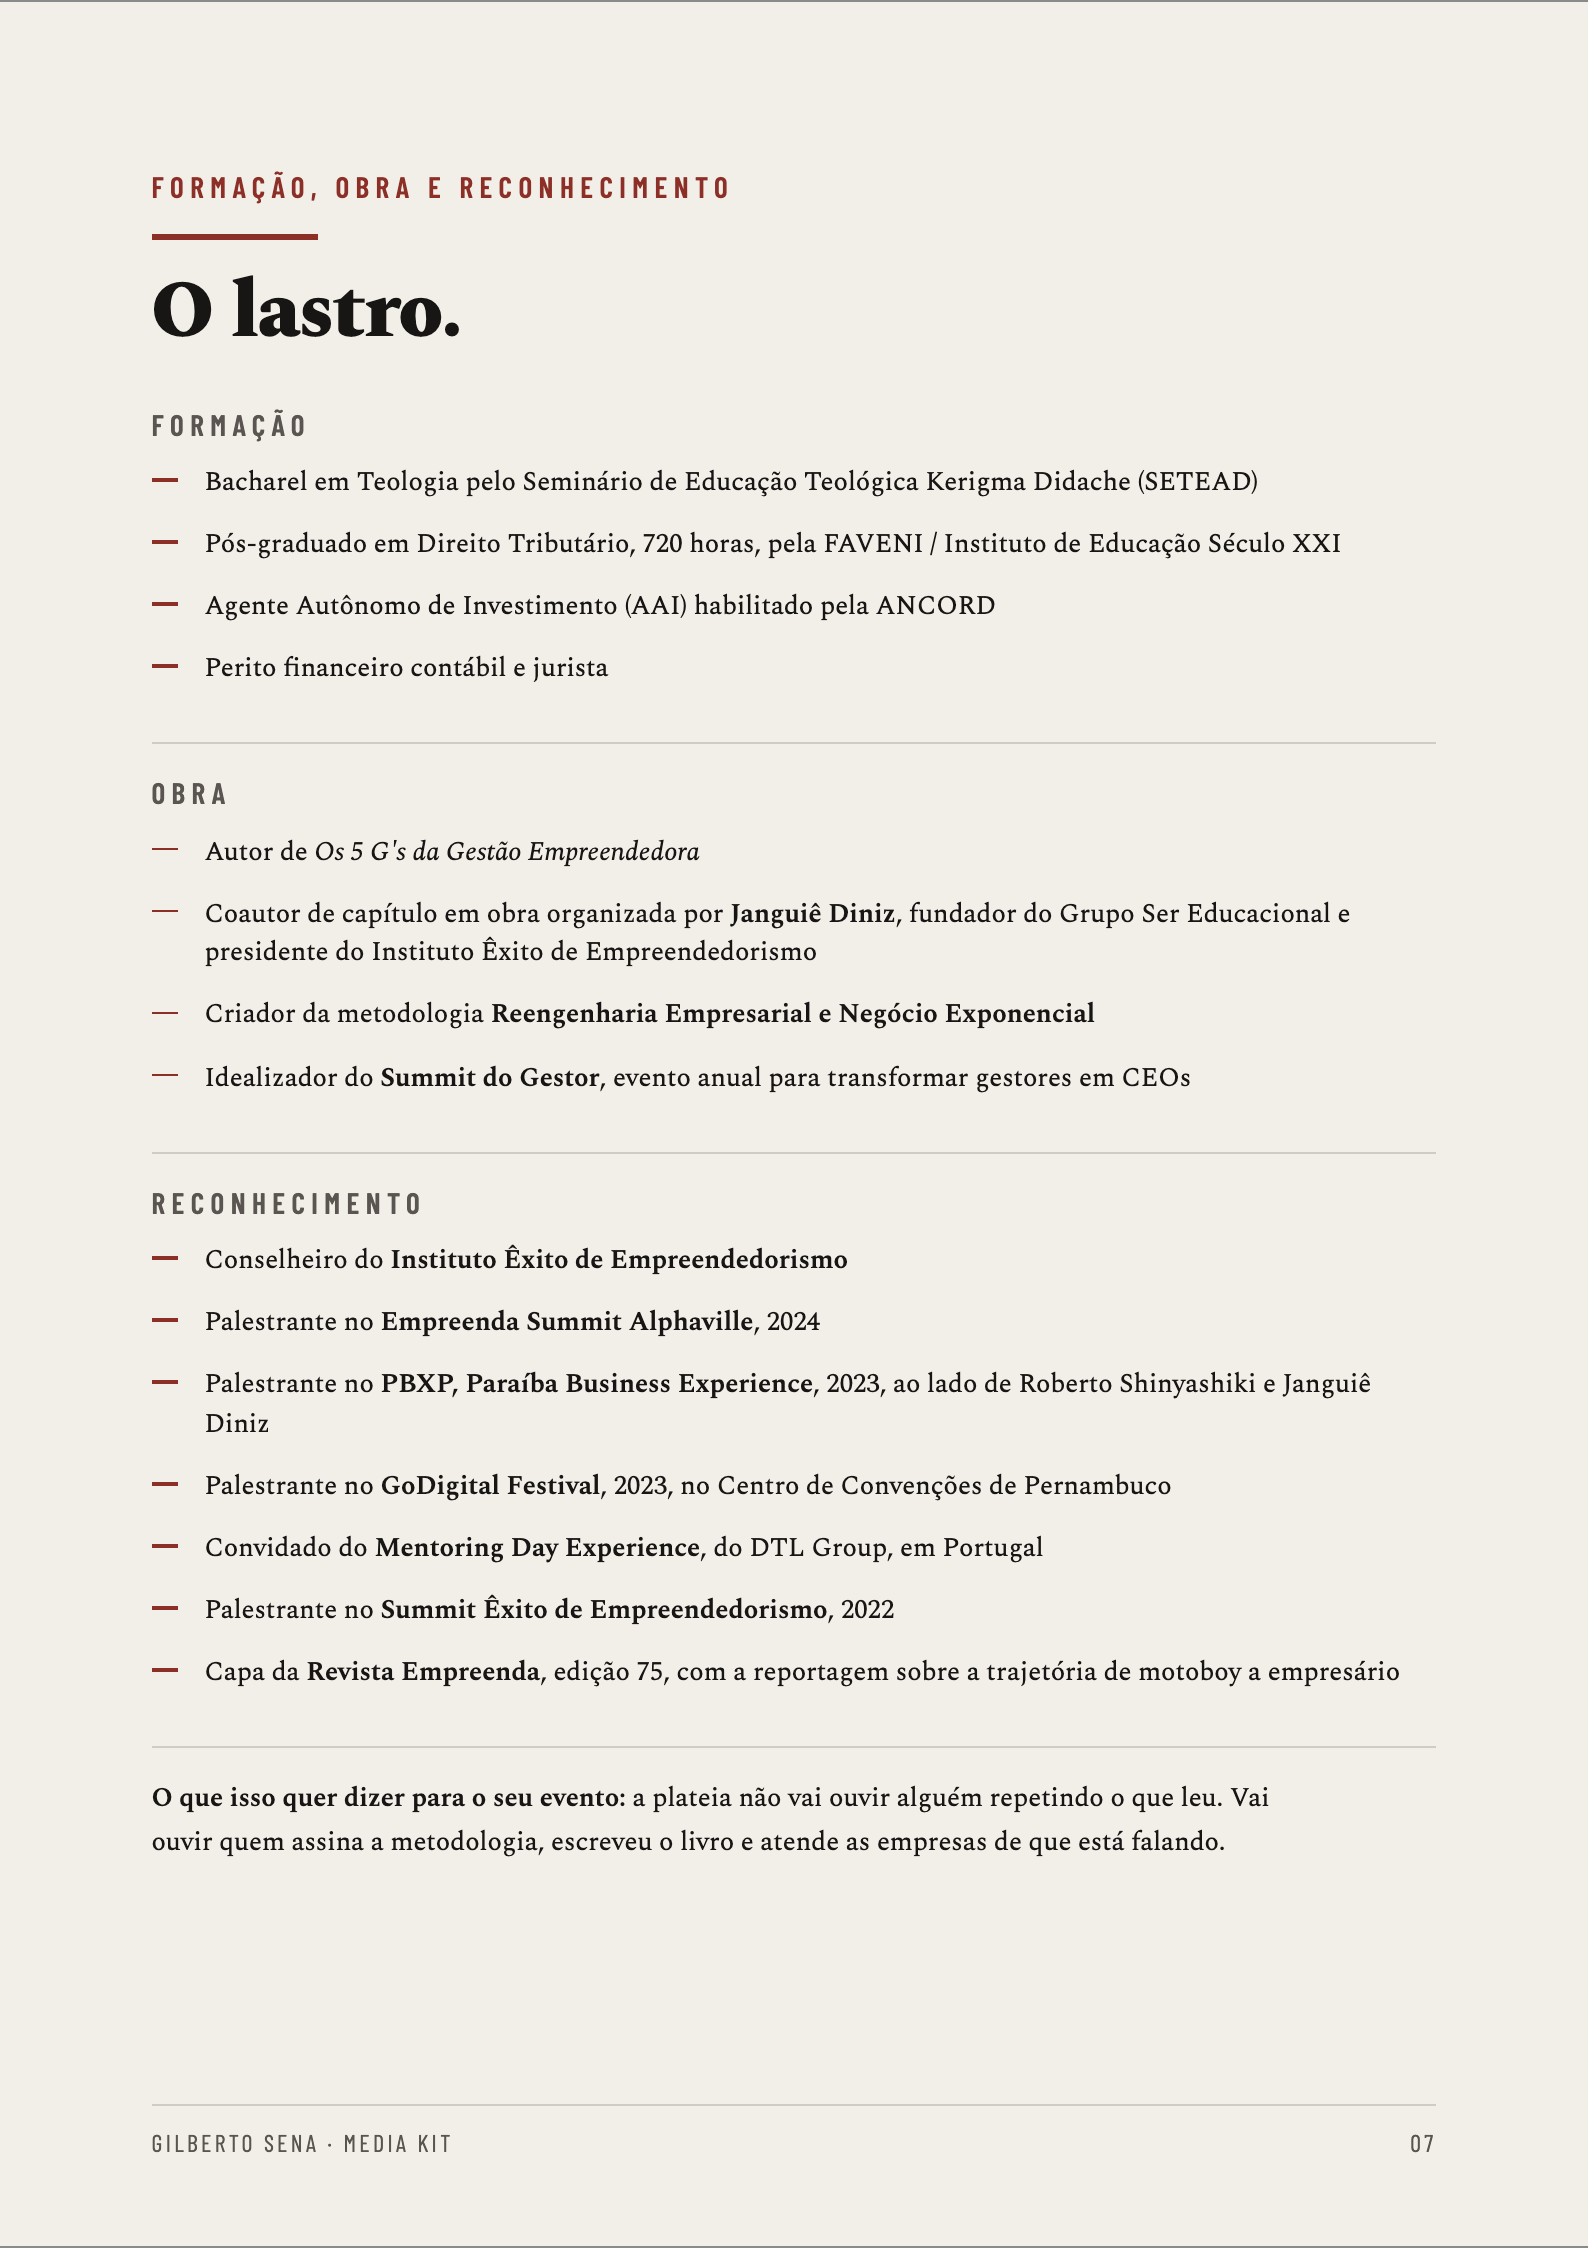
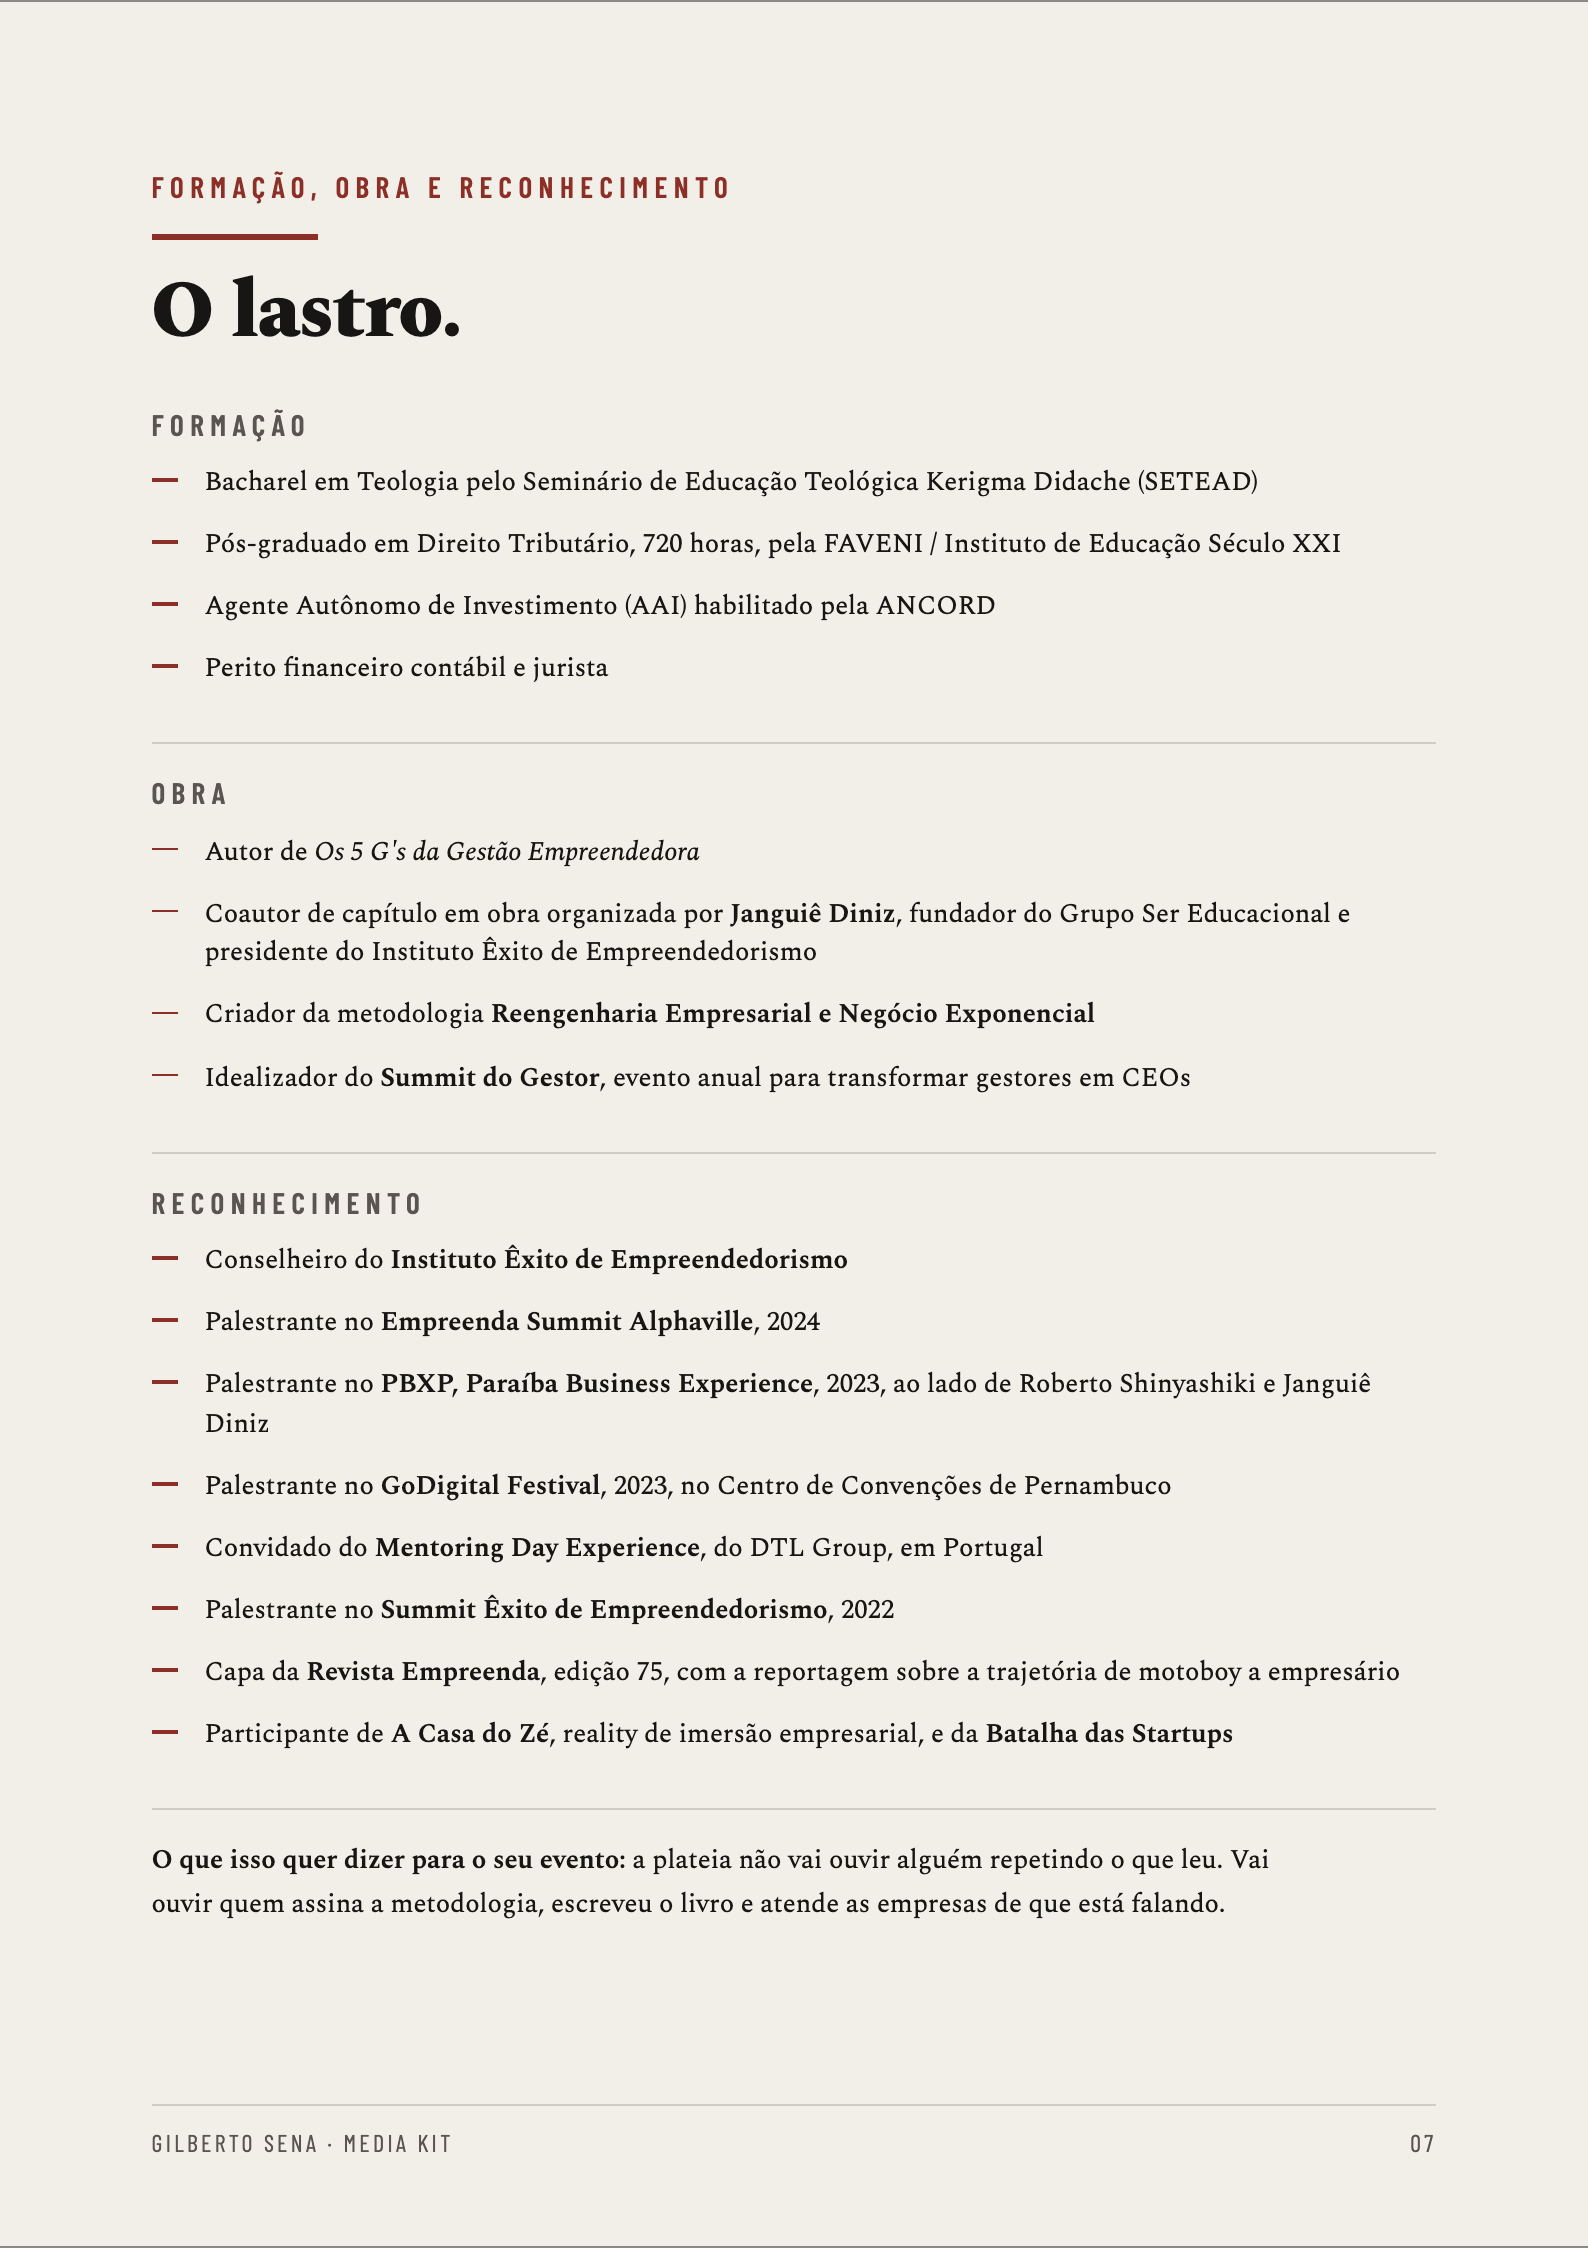
Os 20 videos do lote: achei o depoimento e achei a prova do GoDigital
Ele confirmou duas coisas: "500 empresas" e "a casa do ze participei do
reality e tambem batalha das startups".

500 EMPRESAS: era o que o kit ja usava. Fica registrado em memoria porque o
card publico dele em Portugal diz 1.500 e o posicionamento.md diz 2.000.

CASA DO ZE: e reality de imersao do Jose Roberto Marques, com disputa de
startups dentro. Entrou no kit como aparicao, nunca como palestra. Eu tinha
perguntado em vez de assumir, e era isso mesmo.

O DEPOIMENTO: o Tucco, na sede da Xport Digital, apresenta ele como "um
grande expert, o Giba, do Grupo Sena". O video corta no meio da frase, entao
serve como apresentacao de terceiro e nao como depoimento de resultado. Se
existir a entrevista inteira, vira depoimento de verdade.

O QUE EU NAO VOU USAR: o story do Shinyashiki. Ele cita o nome do Gilberto
numa lista de quem estava na mesa, mas o assunto e o pedido de casamento do
Stanley Bittar. O quem-e-gilberto.md e explicito sobre nao vender proximidade
que nao existe, e usar isso como endosso seria exatamente isso.

ACHADO: um dos videos mostra ele no palco do GDF, com telao "GDF" e
"Explosion", apresentando a linha do tempo da propria vida. E a prova de
palco do GoDigital que o certificado nao dava.

Changed region(s): [[0.0926, 0.7473, 0.8023, 0.8719]]

diff --git a/saidas/NEGOCIOS-E-MARCA/media-kit-palestrante-2026-10-14/media-kit.html b/saidas/NEGOCIOS-E-MARCA/media-kit-palestrante-2026-10-14/media-kit.html
@@ -407,6 +407,7 @@ em{font-style:italic}
     <li>Convidado do <b>Mentoring Day Experience</b>, do DTL Group, em Portugal</li>
     <li>Palestrante no <b>Summit Êxito de Empreendedorismo</b>, 2022</li>
     <li>Capa da <b>Revista Empreenda</b>, edição 75, com a reportagem sobre a trajetória de motoboy a empresário</li>
+    <li>Participante de <b>A Casa do Zé</b>, reality de imersão empresarial, e da <b>Batalha das Startups</b></li>
   </ul>
 
   <div class="regua"></div>

diff --git a/entrada-videos/palco-e-eventos/lote-15-out/LEIA.md b/entrada-videos/palco-e-eventos/lote-15-out/LEIA.md
@@ -1,0 +1,51 @@
+# Os 20 vídeos que ele baixou em 15/out
+
+Olhei todos. O contato com um quadro de cada está em
+`_contato-dos-20-videos.jpg`.
+
+Os arquivos originais continuam na pasta Downloads dele. Aqui eu guardei só o
+que entra em alguma peça, pra não duplicar 1,5 GB no repositório.
+
+## O que tem no lote
+
+| Tipo | Quantos | Exemplos |
+|---|---|---|
+| Ele no palco | 8 | Alphaville, GoDigital, "Mentoria Líderes", palco próprio |
+| Bastidor e evento | 6 | parede de capas da Empreenda, chegada, plateia |
+| Terceiro falando | 3 | Tucco, Shinyashiki, o amigo antes da primeira palestra |
+| História pessoal | 3 | ele contando as quebras e o período desempregado |
+
+## O que serve como depoimento
+
+**`depoimento-tucco-xport-digital.mov`, 15 segundos.** Tucco, na sede da Xport
+Digital, apresenta:
+
+> *"Eu tenho o prazer de receber um grande expert aqui, que é o Giba, do Grupo
+> Sena. Pra você que não conhece, o Grupo Sena é uma empresa que trabalha com
+> auditoria, e trabalha com..."*
+
+**O vídeo corta no meio da frase.** É o começo de uma entrevista maior. Como
+está, serve como apresentação de terceiro, não como depoimento de resultado.
+**Se existir a entrevista inteira, aí vira depoimento de verdade.**
+
+## O que eu NÃO vou usar, e o motivo
+
+**O story do Roberto Shinyashiki.** Ele cita o nome do Gilberto primeiro numa
+lista de quem estava na mesa, mas o assunto do vídeo é o pedido de casamento
+do Stanley Bittar em Paris. **Não é depoimento sobre o trabalho dele.**
+
+O `_memoria/quem-e-gilberto.md` é explícito: ele circula nos mesmos ambientes
+dos grandes nomes, mas **não vender proximidade que não existe, porque queima
+autoridade**. Usar esse story como endosso é exatamente isso.
+
+## Dois achados que valem peça
+
+**Ele palestrou no GDF, o GoDigital Festival.** Um dos vídeos mostra ele no
+palco com o telão "GDF" e "Explosion", apresentando uma linha do tempo da
+própria vida ("Até 1992", "1994"). **Isso é a prova de palco do GoDigital que
+faltava**, e que o certificado não dava.
+
+**O vídeo da primeira palestra da vida dele.** Alguém filma e narra: *"O cara
+vai entrar agora no palco. Primeira palestra. Primeira da minha vida. Dá teu
+show, irmão."* Não serve pro media kit, mas é um dos melhores conteúdos de
+Reels que apareceram hoje.
